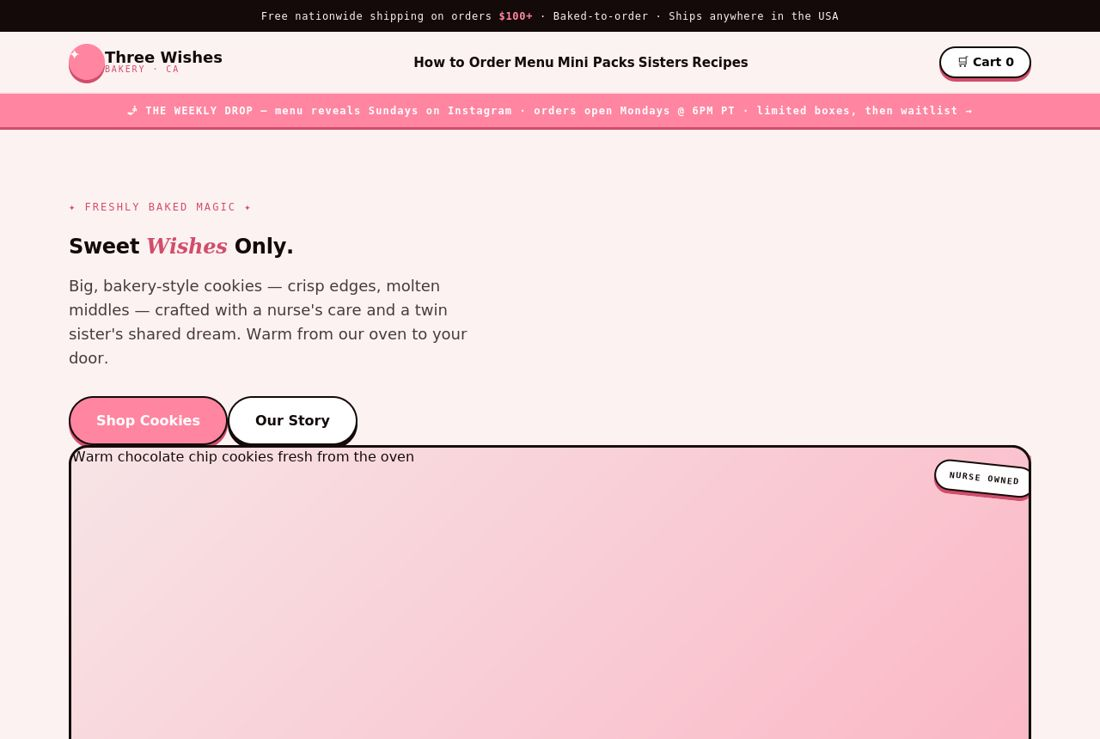
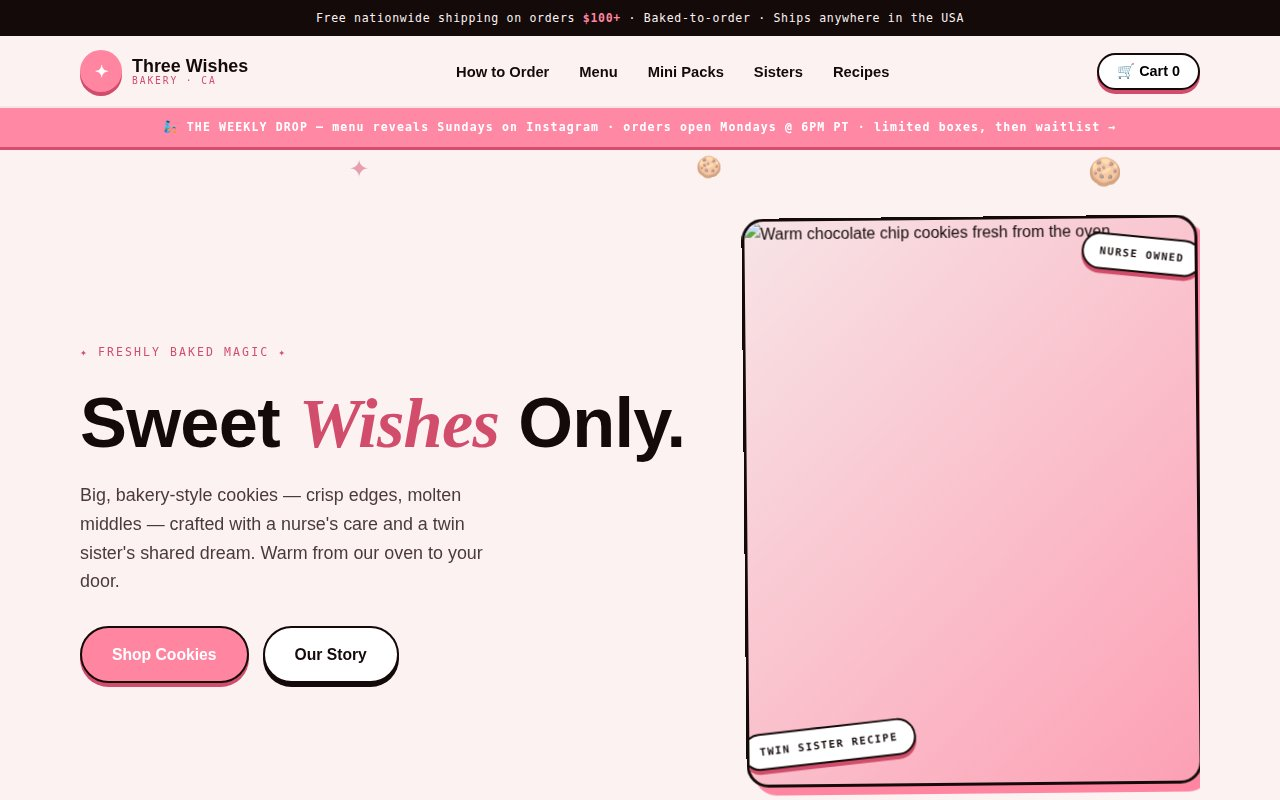
Add files via upload

diff --git a/industries.html b/industries.html
@@ -35,9 +35,25 @@
   <a class="capbox" href="government.html" style="text-decoration:none"><div class="k">Industry</div><div class="v">Government &amp; Public Sector →</div></a>
   <a class="capbox" href="industry-food-retail.html" style="text-decoration:none"><div class="k">Industry</div><div class="v">Food, Retail &amp; E-commerce →</div></a>
   <a class="capbox" href="industry-beauty-fashion.html" style="text-decoration:none"><div class="k">Industry</div><div class="v">Beauty &amp; Fashion →</div></a>
+  <a class="capbox" href="industry-media-broadcasting.html" style="text-decoration:none"><div class="k">Industry</div><div class="v">Media &amp; Broadcasting →</div></a>
+  <a class="capbox" href="industry-education-training.html" style="text-decoration:none"><div class="k">Industry</div><div class="v">Education &amp; Training →</div></a>
   <a class="capbox" href="industry-nonprofits.html" style="text-decoration:none"><div class="k">Industry</div><div class="v">Nonprofits &amp; Community →</div></a>
 </div>
 <div class="pg-section"><h2>Trusted by</h2><p>Henry County NAACP. The Henry County Election Debate. An Atlanta area micro school. Bakeries, psychiatry practices, fashion lines, nonprofits, radio shows, and consultants. See the full wall on <a href="credentials.html" style="color:var(--yellow)">credentials &amp; past performance</a>.</p></div>
+
+<div class="pg-section"><h2>Government mission areas we're active in</h2>
+<p>Beyond delivered work, Millennials Creatives is an active offeror across Arizona state, municipal, and tribal procurement in these mission areas:</p>
+<div class="capgrid" style="margin-top:14px">
+  <div class="capbox"><div class="k">Education</div><div class="v">School improvement · Leadership development · Assessment</div></div>
+  <div class="capbox"><div class="k">Emergency Management</div><div class="v">Instructor training · Preparedness · Certification</div></div>
+  <div class="capbox"><div class="k">Public Safety</div><div class="v">Communications infrastructure · Logging systems</div></div>
+  <div class="capbox"><div class="k">Health &amp; Regulatory</div><div class="v">Cost/fee analysis · Compliance modeling</div></div>
+  <div class="capbox"><div class="k">Child &amp; Family Services</div><div class="v">Interstate compact · Recruitment support</div></div>
+  <div class="capbox"><div class="k">Municipal &amp; Transit</div><div class="v">Cost-of-service studies · Advertising &amp; maintenance</div></div>
+</div>
+<p style="margin-top:12px">Agencies engaged include the Arizona Department of Education, Board of Pharmacy, Department of Emergency &amp; Military Affairs, Department of Administration, State Board of Education, City of Chandler, and the Salt River Pima-Maricopa Indian Community. See <a href="government.html" style="color:var(--yellow)">our government practice</a> or <a href="credentials.html" style="color:var(--yellow)">credentials</a>.</p></div>
+<div class="pg-section"><h2>Don't see your industry? We serve them all.</h2>
+<p>The pages above show industries where our work is already on the wall. But our process is industry agnostic, because it was built on customer service, not guesswork: we listen first, follow your requirements to the letter, and deliver exactly what the scope asks for. Agriculture, construction, finance, hospitality, logistics, real estate, faith organizations, trades. If you have a project and a spec, we have a team that executes it. <a href="contact.html" style="color:var(--yellow)">Tell us your industry</a>.</p></div>
 <div class="pg-section"><h2>One team, every lane</h2>
 <p>Websites, apps, AI tools, brand identity, video, and government-ready compliance, delivered by a certified woman owned, minority owned firm in Phoenix. Pick your industry above to see the work we have shipped in your world, or head straight to <a href="work.html" style="color:var(--yellow)">the full portfolio</a>. While you are here: <a href="credentials.html" style="color:var(--yellow)">our credentials and past performance</a>, and <a href="training.html" style="color:var(--yellow)">training and events</a>.</p></div></main>
 <div class="cta-band">
@@ -52,7 +68,7 @@
     <div class="f-logo"><img src="mc-logo.jpeg" alt="MC Logo"></div>
     <div class="f-links">
       <a href="work.html">Work</a><a href="services.html">Services</a>
-      <a href="team.html">Team</a><a href="government.html">Government</a><a href="industries.html">Industries</a><a href="credentials.html">Credentials</a><a href="training.html">Training</a><a href="credentials.html">Credentials</a><a href="training.html">Training</a>
+      <a href="team.html">Team</a><a href="government.html">Government</a><a href="industries.html">Industries</a><a href="credentials.html">Credentials</a><a href="training.html">Training</a>
       <a href="packages.html">Packages</a><a href="blog.html">Blog</a><a href="culture.html">Culture</a>
       <a href="contact.html">Contact</a>
     </div>

diff --git a/work.html b/work.html
@@ -178,6 +178,7 @@
       </div>
     </div>
     <div class="wk-card wk-card-sm">
+      <div class="wk-img"><img src="sm-card.jpg" alt="Secret Miracles brand guidelines" loading="lazy"></div>
       <div class="wk-body">
         <h3>Secret Miracles, Inc.</h3>
         <div class="wk-tags"><span class="wtag">Brand Guidelines</span><span class="wtag">Nonprofit</span></div>
@@ -185,7 +186,7 @@
       </div>
     </div>
     <div class="wk-card wk-card-sm">
-      <div class="wk-img"><img src="work-ernise.jpg" alt="Ernise Cummings LLC brand identity" loading="lazy"></div>
+      <div class="wk-img"><img src="ernise-card.jpg" alt="Ernise Cummings LLC brand identity" loading="lazy"></div>
       <div class="wk-body">
         <h3>Ernise Cummings LLC</h3>
         <div class="wk-tags"><span class="wtag">Brand Strategy</span><span class="wtag">Consulting</span></div>
@@ -224,7 +225,7 @@
       </div>
     </div>
     <div class="wk-card wk-card-sm">
-      <div class="wk-img"><img src="assets/work-bella-v2.jpg" alt="Bella High brand content" loading="lazy"></div>
+      <div class="wk-img"><img src="assets/work-bella-v2.jpg" alt="Bella High product photography" loading="lazy"></div>
       <div class="wk-body">
         <h3>Bella High</h3>
         <div class="wk-tags"><span class="wtag">Brand Content</span><span class="wtag">Product Shots</span></div>
@@ -381,7 +382,7 @@
   <p class="wk-sect-sub">Industrial design, not decoration. We take a concept from a hand-drawn sketch to a manufacturable product, with the engineering details, dielines, and 3D visualization that real production requires.</p>
   <div class="wk-grid">
     <div class="wk-card">
-      <div class="wk-img"><img src="work-bella-palette.jpg" alt="Bella High, The Royal Highness" loading="lazy"></div>
+      <div class="wk-img"><img src="work-bh-makeup-3d.jpg" alt="Royal Highness palette dieline: opened, displayed, closed" loading="lazy"></div>
       <div class="wk-body">
         <h3>Bella High, The Royal Highness</h3>
         <div class="wk-tags"><span class="wtag">3D Product Design</span><span class="wtag">Packaging</span><span class="wtag">Industrial Design</span></div>
@@ -449,7 +450,7 @@
     <div class="f-logo"><img src="mc-logo.jpeg" alt="MC Logo"></div>
     <div class="f-links">
       <a href="work.html">Work</a><a href="services.html">Services</a>
-      <a href="team.html">Team</a><a href="government.html">Government</a><a href="industries.html">Industries</a><a href="credentials.html">Credentials</a><a href="training.html">Training</a><a href="credentials.html">Credentials</a><a href="training.html">Training</a>
+      <a href="team.html">Team</a><a href="government.html">Government</a><a href="industries.html">Industries</a><a href="credentials.html">Credentials</a><a href="training.html">Training</a>
       <a href="packages.html">Packages</a><a href="blog.html">Blog</a><a href="culture.html">Culture</a>
       <a href="contact.html">Contact</a>
     </div>

diff --git a/blog.html b/blog.html
@@ -307,7 +307,7 @@
     <div class="f-logo"><img src="mc-logo.jpeg" alt="MC Logo"></div>
     <div class="f-links">
       <a href="work.html">Work</a><a href="services.html">Services</a>
-      <a href="team.html">Team</a><a href="government.html">Government</a><a href="industries.html">Industries</a><a href="credentials.html">Credentials</a><a href="training.html">Training</a><a href="credentials.html">Credentials</a><a href="training.html">Training</a>
+      <a href="team.html">Team</a><a href="government.html">Government</a><a href="industries.html">Industries</a><a href="credentials.html">Credentials</a><a href="training.html">Training</a>
       <a href="packages.html">Packages</a><a href="blog.html">Blog</a><a href="culture.html">Culture</a>
       <a href="contact.html">Contact</a>
     </div>

diff --git a/checkout.html b/checkout.html
@@ -72,7 +72,7 @@
     <div class="f-logo"><img src="mc-logo.jpeg" alt="MC Logo"></div>
     <div class="f-links">
       <a href="work.html">Work</a><a href="services.html">Services</a>
-      <a href="team.html">Team</a><a href="government.html">Government</a><a href="industries.html">Industries</a><a href="credentials.html">Credentials</a><a href="training.html">Training</a><a href="credentials.html">Credentials</a><a href="training.html">Training</a>
+      <a href="team.html">Team</a><a href="government.html">Government</a><a href="industries.html">Industries</a><a href="credentials.html">Credentials</a><a href="training.html">Training</a>
       <a href="packages.html">Packages</a><a href="shop.html">Shop</a><a href="blog.html">Blog</a><a href="culture.html">Culture</a>
       <a href="contact.html">Contact</a>
     </div>

diff --git a/contact.html b/contact.html
@@ -59,7 +59,7 @@
     <div class="f-logo"><img src="mc-logo.jpeg" alt="MC Logo"></div>
     <div class="f-links">
       <a href="work.html">Work</a><a href="services.html">Services</a>
-      <a href="team.html">Team</a><a href="government.html">Government</a><a href="industries.html">Industries</a><a href="credentials.html">Credentials</a><a href="training.html">Training</a><a href="credentials.html">Credentials</a><a href="training.html">Training</a>
+      <a href="team.html">Team</a><a href="government.html">Government</a><a href="industries.html">Industries</a><a href="credentials.html">Credentials</a><a href="training.html">Training</a>
       <a href="packages.html">Packages</a><a href="blog.html">Blog</a><a href="culture.html">Culture</a>
       <a href="contact.html">Contact</a>
     </div>

diff --git a/credentials.html b/credentials.html
@@ -86,7 +86,7 @@
     <div class="f-logo"><img src="mc-logo.jpeg" alt="MC Logo"></div>
     <div class="f-links">
       <a href="work.html">Work</a><a href="services.html">Services</a>
-      <a href="team.html">Team</a><a href="government.html">Government</a><a href="industries.html">Industries</a><a href="credentials.html">Credentials</a><a href="training.html">Training</a><a href="credentials.html">Credentials</a><a href="training.html">Training</a>
+      <a href="team.html">Team</a><a href="government.html">Government</a><a href="industries.html">Industries</a><a href="credentials.html">Credentials</a><a href="training.html">Training</a>
       <a href="packages.html">Packages</a><a href="blog.html">Blog</a><a href="culture.html">Culture</a>
       <a href="contact.html">Contact</a>
     </div>

diff --git a/culture.html b/culture.html
@@ -132,7 +132,7 @@
     <div class="f-logo"><img src="mc-logo.jpeg" alt="MC Logo"></div>
     <div class="f-links">
       <a href="work.html">Work</a><a href="services.html">Services</a>
-      <a href="team.html">Team</a><a href="government.html">Government</a><a href="industries.html">Industries</a><a href="credentials.html">Credentials</a><a href="training.html">Training</a><a href="credentials.html">Credentials</a><a href="training.html">Training</a>
+      <a href="team.html">Team</a><a href="government.html">Government</a><a href="industries.html">Industries</a><a href="credentials.html">Credentials</a><a href="training.html">Training</a>
       <a href="packages.html">Packages</a><a href="blog.html">Blog</a><a href="culture.html">Culture</a>
       <a href="contact.html">Contact</a>
     </div>

diff --git a/government.html b/government.html
@@ -112,7 +112,7 @@
     <div class="f-logo"><img src="mc-logo.jpeg" alt="MC Logo"></div>
     <div class="f-links">
       <a href="work.html">Work</a><a href="services.html">Services</a>
-      <a href="team.html">Team</a><a href="government.html">Government</a><a href="industries.html">Industries</a><a href="credentials.html">Credentials</a><a href="training.html">Training</a><a href="credentials.html">Credentials</a><a href="training.html">Training</a>
+      <a href="team.html">Team</a><a href="government.html">Government</a><a href="industries.html">Industries</a><a href="credentials.html">Credentials</a><a href="training.html">Training</a>
       <a href="packages.html">Packages</a><a href="blog.html">Blog</a><a href="culture.html">Culture</a>
       <a href="contact.html">Contact</a>
     </div>

diff --git a/index.html b/index.html
@@ -234,7 +234,7 @@
       <li><a href="services.html">Services</a></li>
       <li><a href="work.html">Work</a></li>
       <li><a href="shop.html">Shop</a></li>
-      <li><a href="government.html">Government</a><a href="industries.html">Industries</a><a href="credentials.html">Credentials</a><a href="training.html">Training</a></li><li><a href="industries.html">Industries</a></li>
+      <li><a href="government.html">Government</a></li><li><a href="industries.html">Industries</a></li>
       <li><a href="team.html">Team</a></li>
       <li><a href="blog.html">Blog</a></li>
       <li><a href="contact.html" class="cta">Book a Call</a></li>

diff --git a/industry-beauty-fashion.html b/industry-beauty-fashion.html
@@ -52,7 +52,7 @@
     <div class="f-logo"><img src="mc-logo.jpeg" alt="MC Logo"></div>
     <div class="f-links">
       <a href="work.html">Work</a><a href="services.html">Services</a>
-      <a href="team.html">Team</a><a href="government.html">Government</a><a href="industries.html">Industries</a><a href="credentials.html">Credentials</a><a href="training.html">Training</a><a href="credentials.html">Credentials</a><a href="training.html">Training</a>
+      <a href="team.html">Team</a><a href="government.html">Government</a><a href="industries.html">Industries</a><a href="credentials.html">Credentials</a><a href="training.html">Training</a>
       <a href="packages.html">Packages</a><a href="blog.html">Blog</a><a href="culture.html">Culture</a>
       <a href="contact.html">Contact</a>
     </div>

diff --git a/industry-healthcare.html b/industry-healthcare.html
@@ -62,7 +62,7 @@
     <div class="f-logo"><img src="mc-logo.jpeg" alt="MC Logo"></div>
     <div class="f-links">
       <a href="work.html">Work</a><a href="services.html">Services</a>
-      <a href="team.html">Team</a><a href="government.html">Government</a><a href="industries.html">Industries</a><a href="credentials.html">Credentials</a><a href="training.html">Training</a><a href="credentials.html">Credentials</a><a href="training.html">Training</a>
+      <a href="team.html">Team</a><a href="government.html">Government</a><a href="industries.html">Industries</a><a href="credentials.html">Credentials</a><a href="training.html">Training</a>
       <a href="packages.html">Packages</a><a href="blog.html">Blog</a><a href="culture.html">Culture</a>
       <a href="contact.html">Contact</a>
     </div>

diff --git a/industry-nonprofits.html b/industry-nonprofits.html
@@ -49,7 +49,7 @@
     <div class="f-logo"><img src="mc-logo.jpeg" alt="MC Logo"></div>
     <div class="f-links">
       <a href="work.html">Work</a><a href="services.html">Services</a>
-      <a href="team.html">Team</a><a href="government.html">Government</a><a href="industries.html">Industries</a><a href="credentials.html">Credentials</a><a href="training.html">Training</a><a href="credentials.html">Credentials</a><a href="training.html">Training</a>
+      <a href="team.html">Team</a><a href="government.html">Government</a><a href="industries.html">Industries</a><a href="credentials.html">Credentials</a><a href="training.html">Training</a>
       <a href="packages.html">Packages</a><a href="blog.html">Blog</a><a href="culture.html">Culture</a>
       <a href="contact.html">Contact</a>
     </div>